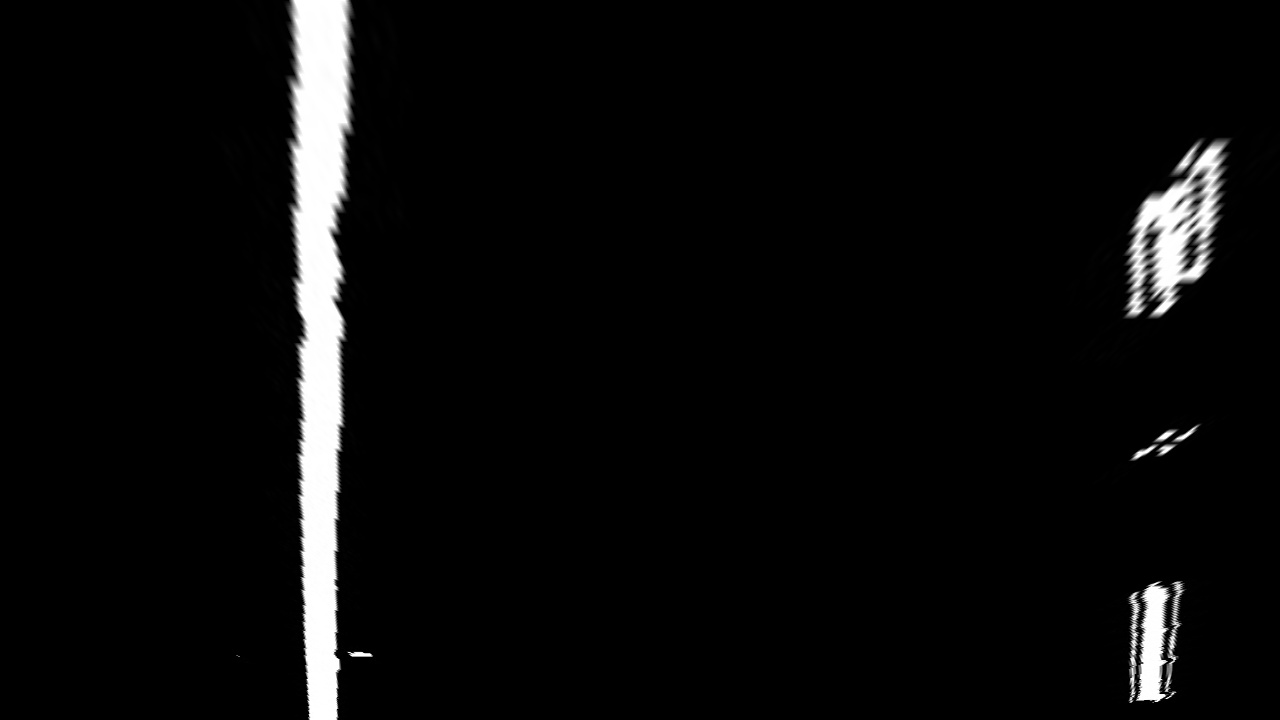
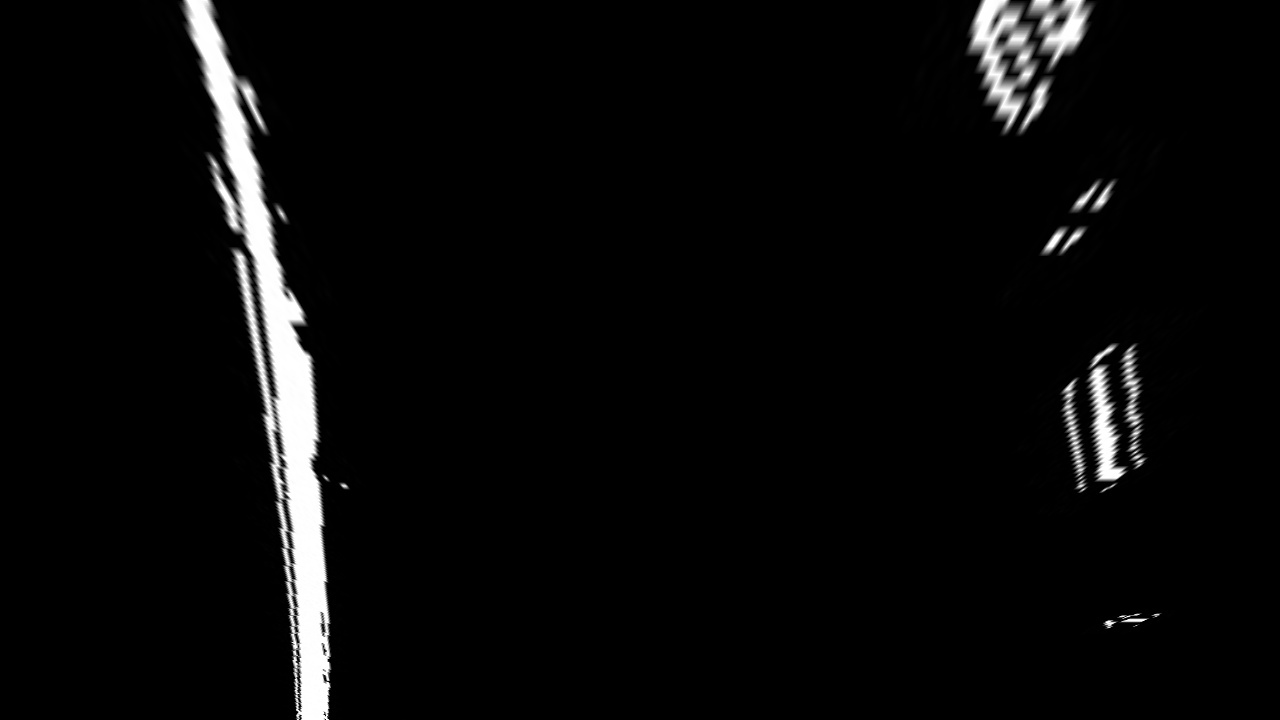
fixed poly fit images

diff --git a/adv_lane_lines.py b/adv_lane_lines.py
@@ -422,20 +422,20 @@ def process_image(fname):
 '''
 test on images  
 '''
-#import os
-#path=os.listdir("test_images/")
-#i=1
-#for filename in path:
-#    if fnmatch.fnmatch(filename, '*.jpg'):
-#        image = cv2.imread("test_images/"+filename)
-#        lane_det=process_image(image)
-#        cv2.imwrite(os.getcwd() +'/output_images/'+filename[:-4]+'_processed.jpeg',lane_det)
-#        i=i+1
+import os
+path=os.listdir("test_images/")
+i=1
+for filename in path:
+    if fnmatch.fnmatch(filename, '*.jpg'):
+        image = cv2.imread("test_images/"+filename)
+        lane_det=process_image(image)
+        cv2.imwrite(os.getcwd() +'/output_images/'+filename[:-4]+'_processed.jpeg',lane_det)
+        i=i+1
 
 #Import everything needed to edit/save/watch video clips
-from moviepy.editor import VideoFileClip
-from IPython.display import HTML
-white_output = 'project_video_proc.mp4'
-clip1 = VideoFileClip("project_video.mp4")
-white_clip = clip1.fl_image(process_image) #NOTE: this function expects color images!!
-white_clip.write_videofile(white_output, audio=False)
+#from moviepy.editor import VideoFileClip
+#from IPython.display import HTML
+#white_output = 'project_video_proc.mp4'
+#clip1 = VideoFileClip("project_video.mp4")
+#white_clip = clip1.fl_image(process_image) #NOTE: this function expects color images!!
+#white_clip.write_videofile(white_output, audio=False)

diff --git a/README.md b/README.md
@@ -21,9 +21,9 @@ The goals / steps of this project are the following:
 [image6]: ./output_images/test2_thresh_F.jpg "Thesholded Test Image"
 [image7]: ./output_images/test2_overlayed.jpg "Mask Overlayed Image"
 [image8]: ./output_images/test2_warped.jpg "Warped Image"
-[image9]: ./output_images/output.jpg "Lane Line Identifiers"
-[image10]: ./output_images/output_1.jpg "Centroids of Lane Lines"
-[image11]: ./output_images/output_2.jpg "Curvefitted Line"
+[image9]: ./output_images/test2_out1.jpg "Lane Line Identifiers"
+[image10]: ./output_images/test2_out2.jpg "Centroids of Lane Lines"
+[image11]: ./output_images/test2_out3.jpg "Curvefitted Line"
 [image12]: ./output_images/radius_calculation.png "Radius of Curvature"
 [image13]: ./output_images/test2_processed.jpeg "Processed Unwarped Image"
 [video1]: ./project_video.mp4 "Video"
@@ -105,7 +105,7 @@ To apply perspective transform, the 'M' matrix is first computed using ```M = cv
 Similarly the Minv is also computed by swapping the src and dst matrices. 
 
 To warp an image the 'M' matrix is used with function ```cv2.warpPerspective``` 
-Lines 231 through 238 in my code perform the perspective transform
+Lines 272 through 279 in my code perform the perspective transform
 
 | Source Points Overlayed | After applying Perspective Transform |
 |:---:|:---:|
@@ -163,8 +163,6 @@ The calculated lane curvature and relative vehicle position is then displayed at
 
 ### Pipeline (video)
 
-#### 1. Provide a link to your final video output.  Your pipeline should perform reasonably well on the entire project video (wobbly lines are ok but no catastrophic failures that would cause the car to drive off the road!).
-
 | Original Project Video | Processed Project Video |
 |:---:|:---:|
 | [![Advanced Lane Finding Processed](https://i.ytimg.com/vi/akFd5a_rOwU/maxresdefault.jpg)](https://youtu.be/akFd5a_rOwU) | [![Advanced Lane Finding Processed](https://i.ytimg.com/vi/rRrMAY6gWtw/maxresdefault.jpg)](https://youtu.be/rRrMAY6gWtw) |
@@ -175,11 +173,13 @@ The calculated lane curvature and relative vehicle position is then displayed at
 
 #### 1. Briefly discuss any problems / issues you faced in your implementation of this project.  Where will your pipeline likely fail?  What could you do to make it more robust?
 
+The camera calibration is performed in at first to calculate the distortion correction factors. The distortion correction code is implemented at the very beginning of the pipeline so that all images are corrected for distortion. The Sobel operator is used in X, Y, Magnitude, Direction along with S channel and V channel thresholding. Further, these thresholding techniques are combined to obtain an image with minimal unnecessary information. Perspective transform is then used to obtain 'birds eye view' of the lane in front of the car. The transformed image is then processed through a sliding window search code which uses convolution to identify the lane lines.
+
 Here I'll talk about the approach I took, what techniques I used, what worked and why, where the pipeline might fail and how I might improve it if I were going to pursue this project further.  
 
 ### References 
-[1] Lesson 22 Magnitude of the Gradient - Project: Advanced Lane Finding 
+[1] Lesson 22 Magnitude of the Gradient - Project: Advanced Lane Finding
+ 
 [2] Lesson 23 Direction of the Gradient - Project: Advanced Lane Finding 
+
 [3] Lesson 35 Measuring Curvature - Project: Advanced Lane Finding 
-0:00
-0:
